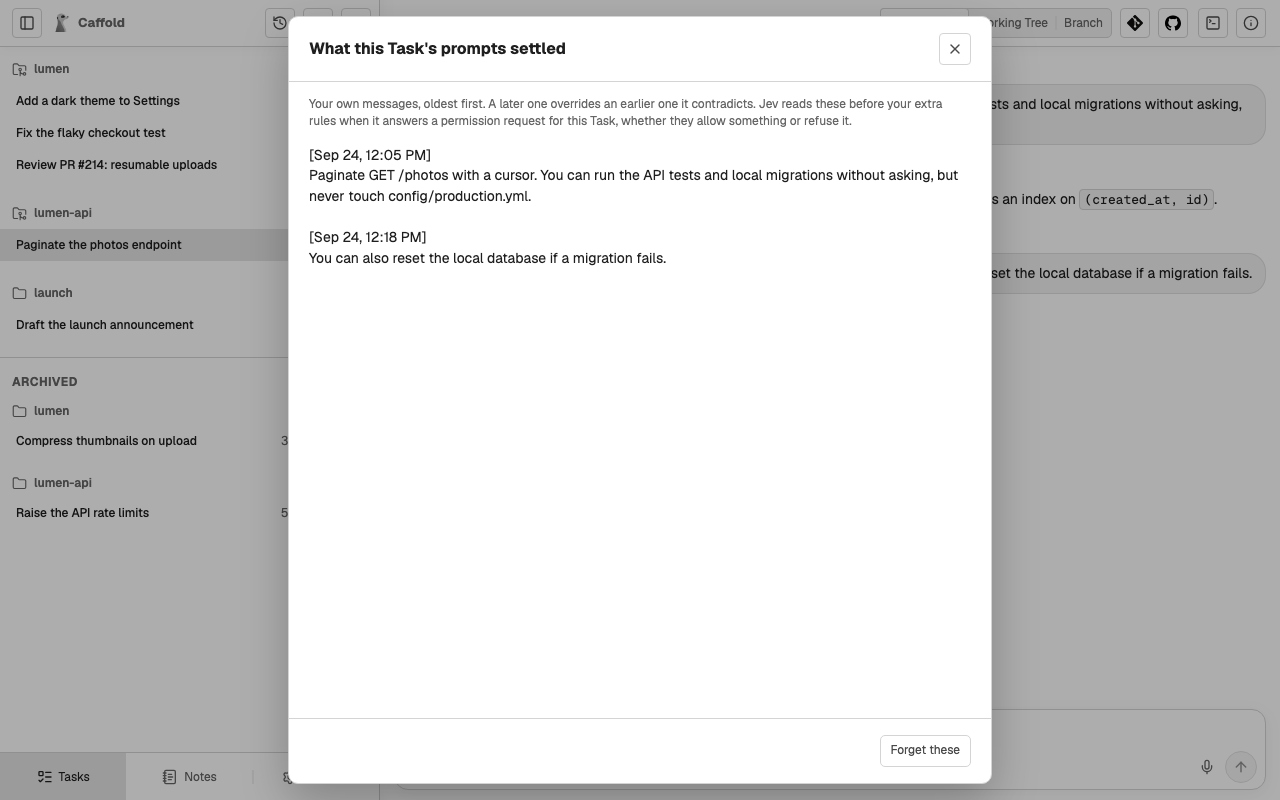
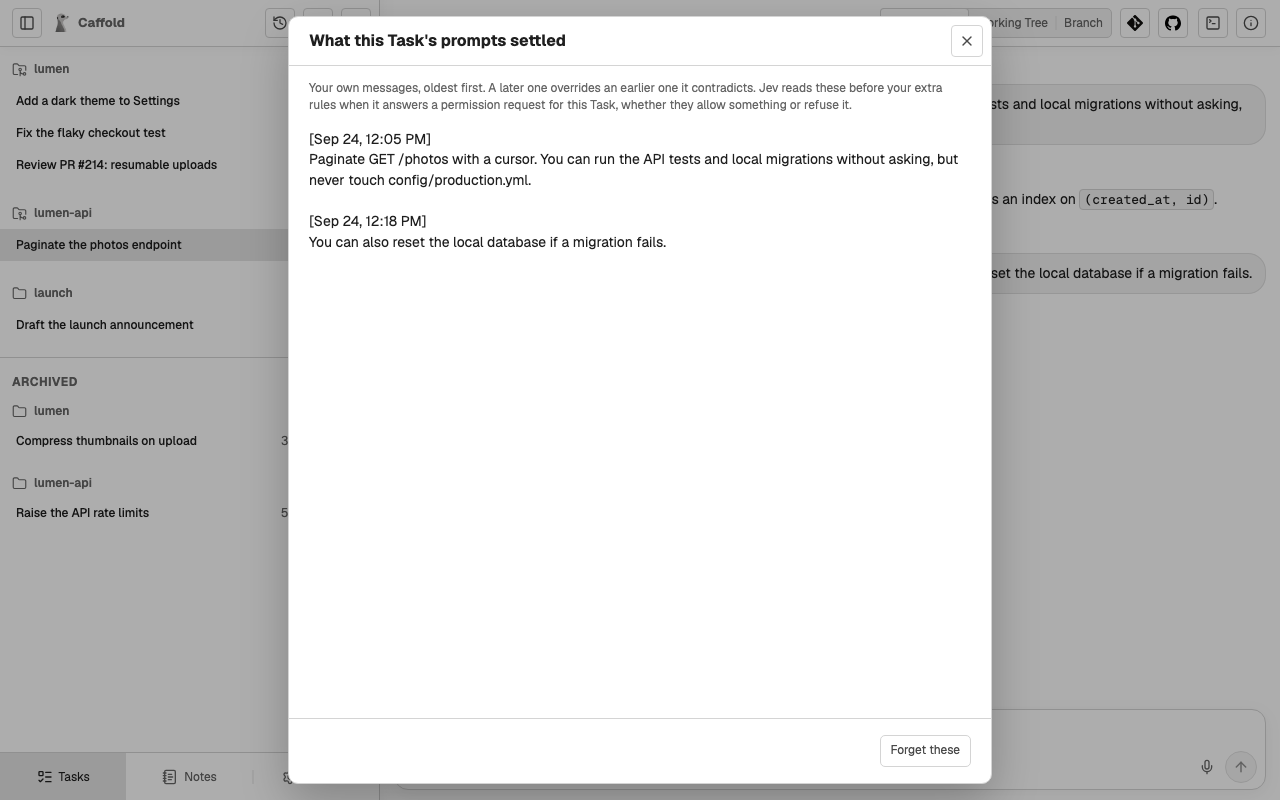
Fit title-and-X dialog headers to their close button
The Task switcher, Markdown preview, and settled-prompts dialogs have only a
title and an X in their header but kept the padding of headers with a second
line. The X now sits as far from the header's top and bottom as from its end.

Changed region(s): [[0.2188, 0.0312, 0.75, 0.3438], [0.75, 0.0312, 0.7812, 0.0625]]

diff --git a/frontend/tests/e2e/tasks/task-switcher.spec.js b/frontend/tests/e2e/tasks/task-switcher.spec.js
@@ -521,13 +521,15 @@ test("stands beside Back the way the Task list header spaces its own buttons", {
   await captureReviewScreenshot(page, testInfo, "task-switcher-route-control");
 });
 
-test("draws its header the way the Markdown preview draws its header", { tag: "@all-viewports" }, async ({
+test("draws its header the way the other title-and-X dialogs draw theirs", { tag: "@all-viewports" }, async ({
   page,
 }, testInfo) => {
   const tasks = switcherTasks();
   await installSwitcherFixture(page, tasks);
+  await page.route("**/permission-instructions", (route) =>
+    route.fulfill({ json: { instructions: null } }));
   await page.goto("/tasks/switcher_oldest");
-  // The Markdown preview lives in a loaded Task's conversation.
+  // The Markdown preview and the settled prompts live in a loaded Task.
   await emitTaskDetailBootstrap(page, switcherTaskDetail(tasks[2]));
   await expect(page.locator(".task-conversation-pane")).toBeVisible();
 
@@ -548,6 +550,25 @@ test("draws its header the way the Markdown preview draws its header", { tag: "@
     .click();
   await expect(previewDialog).toBeHidden();
 
+  const settled = page.locator("caffold-task-permission-instructions-dialog");
+  await settled.evaluate(
+    (element, threadId) => element.open({ threadId }),
+    tasks[2].threadId,
+  );
+  const settledDialog = page.locator(
+    "caffold-task-permission-instructions-dialog > dialog",
+  );
+  await expect(settledDialog).toBeVisible();
+  const settledHeader = await dialogHeaderGeometry(settledDialog, {
+    header: ".task-permission-instructions-header",
+    title: ".task-permission-instructions-title",
+    close: ".task-permission-instructions-close",
+  });
+  await settledDialog
+    .getByRole("button", { name: "Close what this Task settled" })
+    .click();
+  await expect(settledDialog).toBeHidden();
+
   await switcherOpeners(page).click();
   const dialog = page.locator("caffold-task-switcher-dialog > dialog");
   await expect(dialog).toBeVisible();
@@ -557,7 +578,13 @@ test("draws its header the way the Markdown preview draws its header", { tag: "@
     close: ".task-switcher-close",
   });
 
+  expect(settledHeader).toEqual(reference);
   expect(header).toEqual(reference);
+  // The X sits in the header's corner as far from the top and bottom lines as
+  // from the end.
+  const [top, end, bottom] = header.closeInset;
+  expect(end).toBe(top);
+  expect(bottom).toBe(top);
   await captureReviewScreenshot(page, testInfo, "task-switcher-header");
 });
 
@@ -683,7 +710,11 @@ async function dialogHeaderGeometry(dialog, selectors) {
   return dialog.evaluate((element, { header, title, close }) => {
     const round = (value) => Math.round(value * 100) / 100;
     const box = element.getBoundingClientRect();
-    const headerBox = element.querySelector(header).getBoundingClientRect();
+    const headerElement = element.querySelector(header);
+    const headerBox = headerElement.getBoundingClientRect();
+    const headerBorder = parseFloat(
+      getComputedStyle(headerElement).borderBottomWidth,
+    );
     const titleElement = element.querySelector(title);
     const titleBox = titleElement.getBoundingClientRect();
     const titleStyle = getComputedStyle(titleElement);
@@ -701,6 +732,11 @@ async function dialogHeaderGeometry(dialog, selectors) {
       closeSize: [round(closeBox.width), round(closeBox.height)],
       closeEnd: round(box.right - closeBox.right),
       closeCenter: round(closeBox.top + closeBox.height / 2 - headerBox.top),
+      closeInset: [
+        round(closeBox.top - headerBox.top),
+        round(headerBox.right - closeBox.right),
+        round(headerBox.bottom - headerBorder - closeBox.bottom),
+      ],
     };
   }, selectors);
 }

diff --git a/frontend/pages/(task-workspace)/tasks/components/task-switcher-dialog.css b/frontend/pages/(task-workspace)/tasks/components/task-switcher-dialog.css
@@ -35,7 +35,8 @@ caffold-task-switcher-dialog {
     align-items: center;
     gap: var(--interface-space-8);
     min-width: 0;
-    padding: var(--interface-space-8) var(--interface-space-10);
+    padding-block: var(--interface-space-4);
+    padding-inline: var(--interface-space-10) var(--interface-space-4);
     border-bottom: 1px solid var(--border);
   }
 
@@ -212,7 +213,7 @@ caffold-task-switcher-dialog {
 @media (max-width: 620px) {
   caffold-task-switcher-dialog {
     & .task-switcher-header {
-      padding: var(--interface-space-6);
+      padding-inline: var(--interface-space-6) var(--interface-space-4);
     }
   }
 }

diff --git a/frontend/pages/(task-workspace)/tasks/(detail)/(task)/components/permission-instructions-dialog.css b/frontend/pages/(task-workspace)/tasks/(detail)/(task)/components/permission-instructions-dialog.css
@@ -36,7 +36,8 @@ caffold-task-permission-instructions-dialog {
     align-items: center;
     gap: var(--interface-space-8);
     min-width: 0;
-    padding: var(--interface-space-8) var(--interface-space-10);
+    padding-block: var(--interface-space-4);
+    padding-inline: var(--interface-space-10) var(--interface-space-4);
     border-bottom: 1px solid var(--border);
   }
 
@@ -149,7 +150,7 @@ caffold-task-permission-instructions-dialog {
     }
 
     & .task-permission-instructions-header {
-      padding: var(--interface-space-6);
+      padding-inline: var(--interface-space-6) var(--interface-space-4);
     }
   }
 }

diff --git a/frontend/pages/(task-workspace)/tasks/(detail)/(task)/components/markdown-preview-dialog.css b/frontend/pages/(task-workspace)/tasks/(detail)/(task)/components/markdown-preview-dialog.css
@@ -32,7 +32,8 @@ caffold-task-markdown-preview-dialog {
     align-items: center;
     gap: var(--interface-space-8);
     min-width: 0;
-    padding: var(--interface-space-8) var(--interface-space-10);
+    padding-block: var(--interface-space-4);
+    padding-inline: var(--interface-space-10) var(--interface-space-4);
     border-bottom: 1px solid var(--border);
   }
 
@@ -101,7 +102,7 @@ caffold-task-markdown-preview-dialog {
     }
 
     & .task-markdown-preview-header {
-      padding: var(--interface-space-6);
+      padding-inline: var(--interface-space-6) var(--interface-space-4);
     }
   }
 }
